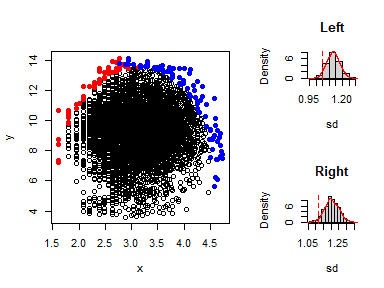
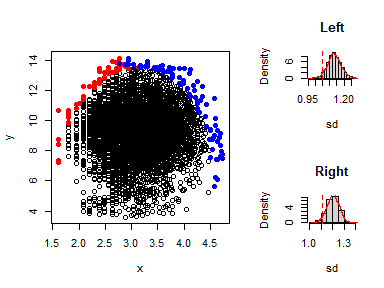
Added the badges to the README

Changed region(s): [[0.7188, 0.1562, 0.9375, 0.375], [0.75, 0.6562, 0.9375, 0.875]]

diff --git a/README.md b/README.md
@@ -4,6 +4,14 @@
 # BLA
 
 <!-- badges: start -->
+
+[![Lifecycle:
+stable](https://img.shields.io/badge/lifecycle-stable-brightgreen.svg)](https://lifecycle.r-lib.org/articles/stages.html#stable)
+![CRAN/METACRAN Version](https://img.shields.io/cran/v/BLA) ![GitHub R
+package
+version](https://img.shields.io/github/r-package/v/chawezimiti/BLA)
+[![R-CMD-check](https://github.com/chawezimiti/BLA/actions/workflows/check-standard.yaml/badge.svg)](https://github.com/chawezimiti/BLA/actions/workflows/check-standard.yaml)
+
 <!-- badges: end -->
 
 ## Overview
@@ -146,7 +154,7 @@ This is done using the function `expl_boundary()`
   y <- data[,2]
 
   expl_boundary(x,y,10,1000)
-#> Note: This function may take a few minutes to run for large datasets.
+#> Note: This function might take longer to execute when running a large number of simulations.
 ```
 
 <img src="man/figures/README-unnamed-chunk-8-1.png" width="100%" style="display: block; margin: auto;" />
@@ -154,10 +162,10 @@ This is done using the function `expl_boundary()`
     #>     Index Section    value
     #> 1      sd    Left 1.045711
     #> 2      sd   Right 1.115379
-    #> 3 Mean sd    Left 1.129992
-    #> 4 Mean sd   Right 1.204543
-    #> 5 p_value    Left 0.041000
-    #> 6 p_value   Right 0.029000
+    #> 3 Mean sd    Left 1.131102
+    #> 4 Mean sd   Right 1.203786
+    #> 5 p_value    Left 0.035000
+    #> 6 p_value   Right 0.041000
 
 The p-values in the left and right sections are less than 0.05,
 indicating evidence of boundary existence. This justifies the fitting of
